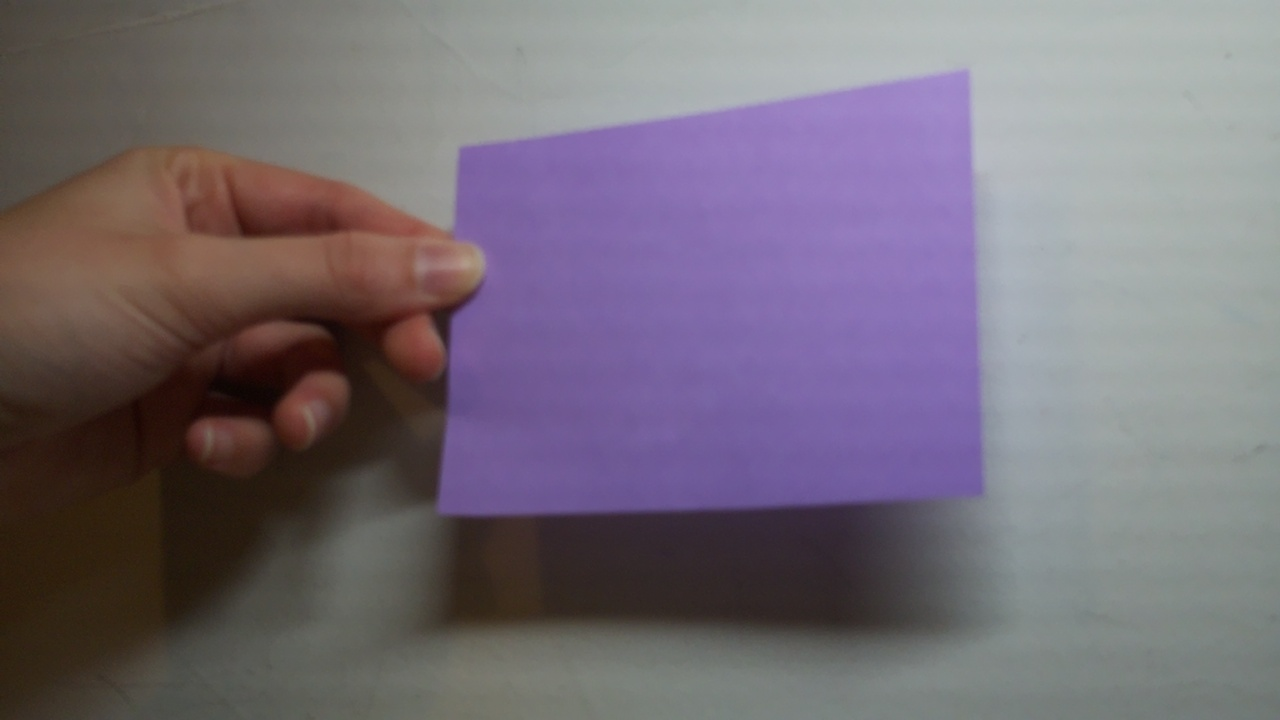
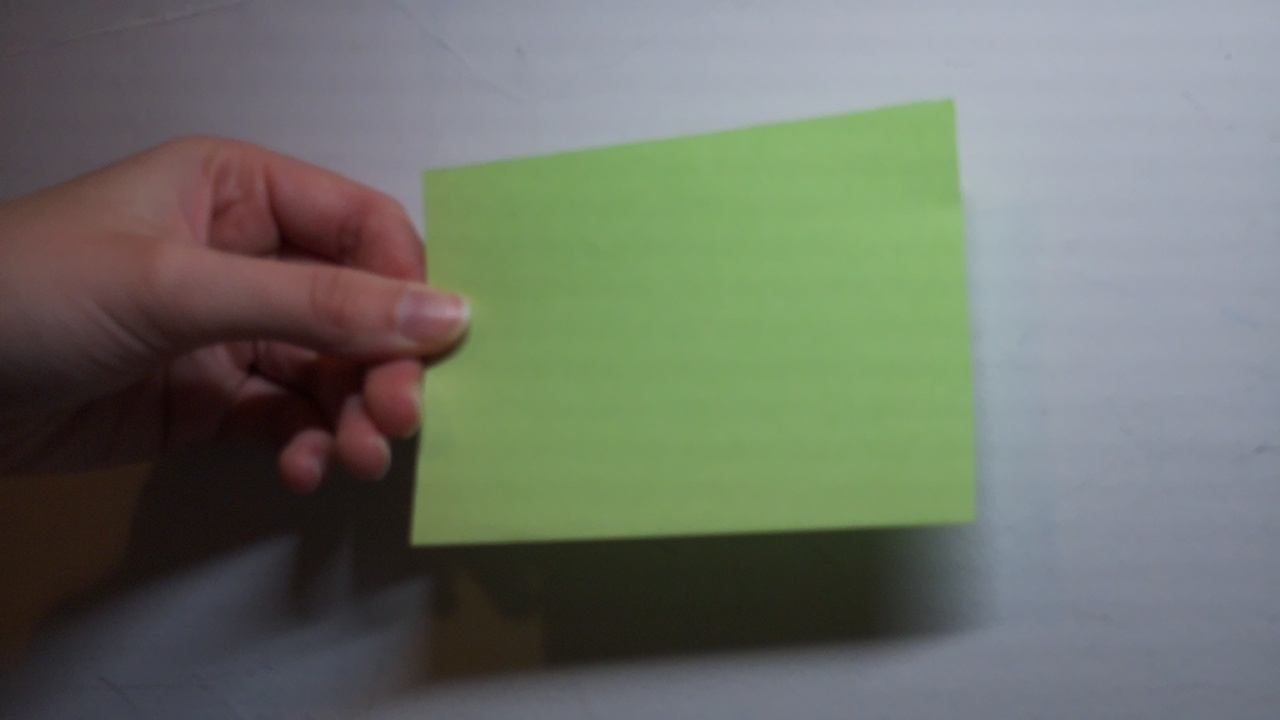
security system casi terminado

diff --git a/security_system.py b/security_system.py
@@ -7,24 +7,20 @@ import time
 
 import numpy as np
 
-from picamera2 import Picamera2
+# from picamera2 import Picamera2
 from typing import List
-from utils_lab2 import non_max_suppression, get_hsv_color_ranges
+from utils import *
 
 
-def load_images(filenames):
-    return [imageio.v2.imread(filename) for filename in filenames]
+# def load_images(filenames):
+#     return [cv2.imread(filename) for filename in filenames]
 
-def show_image(img) -> None:
-    cv2.imshow("Chessboard Images", img)
-    cv2.waitKey(0)
-    cv2.destroyAllWindows()
+# def show_image(img) -> None:
+#     cv2.imshow("Chessboard Images", img)
+#     cv2.waitKey(0)
+#     cv2.destroyAllWindows()
     
-def save_images(img, img_name: str, folder_path: str = "."):
-    if img_name[-4:] != ".jpg":
-        img_name = f"{img_name}.jpg"
-    img_path = os.path.join(folder_path, img_name)
-    cv2.imwrite(img_path, img)
+
 
 # imgs_path = glob.glob('data/*.jpg')
 #     folder = ""
@@ -34,57 +30,111 @@ def save_images(img, img_name: str, folder_path: str = "."):
 # El número de colores dependerá del número de tarjetas que tengamos.
 # El código de cada color se define ejecutando color_code.py
 LIGHT_COLORS = {
-    'red': (138,153,0),
-    'pink': (139,64,141),
-    'blue': (102,108,139),  # subrayador
-    'aquamarine': (40,92,110),  # estuche
-    'purple': (100,123,57)
+    'purple': (100,65,60),
+    'dark_yellow': (0,180,130),
+    'light_yellow': (15,100,120),
+    'orange': (0,145,120),
+    'pink': (120,0,100),
+    'dark_blue': (90,125,90),
+    'light_blue': (90,55,100),
+    'dark_green': (30,120,0),
+    'light_green': (30,80,110)
 }
 
 DARK_COLORS = {
-    'red': (255,255,136),
-    'pink': (255,121,255),
-    'blue': (112,165,219),  # subrayador
-    'aquamarine': (97,165,219),  # estuche
-    'purple': (139,255,169)
+    'purple': (150,110,210),
+    'dark_yellow': (30,255,255),
+    'light_yellow': (35,170,255),
+    'orange': (20,255,255),
+    'pink': (170,255,255),
+    'dark_blue': (150,255,255),
+    'light_blue': (110,105,255),
+    'dark_green': (70,255,255),
+    'light_green': (70,120,255)
 }
 
 CODE_HSV2BGR = 54
 CODE_BGR2HSV = 40
 
-def hsv_to_bgr(imgs):
-    bgr_imgs = []
-    for img in imgs:
-        bgr_imgs.append(cv2.cvtColor(img, CODE_HSV2BGR))
-    return bgr_imgs
+# def hsv_to_bgr(imgs):
+#     bgr_imgs = []
+#     for img in imgs:
+#         bgr_imgs.append(cv2.cvtColor(img, CODE_HSV2BGR))
+#     return bgr_imgs
 
-def bgr_to_hsv(imgs):
-    hsv_imgs = []
-    for img in imgs:
-        hsv_imgs.append(cv2.cvtColor(img, CODE_BGR2HSV))
-    return hsv_imgs
+# def bgr_to_hsv(imgs):
+#     hsv_imgs = []
+#     for img in imgs:
+#         hsv_imgs.append(cv2.cvtColor(img, CODE_BGR2HSV))
+#     return hsv_imgs
 
 def color_segmentation(img, color: str):
     # Necesitamos saber cómo viene la imagen para saber si hay que pasarla a hsv o no. Asumo que vienen en BGR
-    hsv_img = cv2.cvtColor(img, CODE_HSV2BGR)
+    hsv_img = cv2.cvtColor(img, CODE_BGR2HSV)
     mask = cv2.inRange(hsv_img, LIGHT_COLORS[color], DARK_COLORS[color])
     segmented = cv2.bitwise_and(hsv_img, hsv_img, mask=mask)
     segmented_bgr = cv2.cvtColor(segmented, CODE_HSV2BGR)
-    show_image(segmented_bgr, 'Segmented image')
-    return mask
+    show_image(segmented_bgr)
+    return mask, segmented_bgr
 
-def color_detected(mask, thresshold=200) -> bool:
+def color_detected(mask, thresshold=20000) -> bool:
     area_color = np.count_nonzero(mask)
     if area_color > thresshold:
         return True
     else:
         return False
 
+def get_password():
+    try:
+        with open("password.txt", "r", encoding="utf-8") as passw:
+            line = passw.readline()
+            password = line.split(sep=",")
+            password[-1] = password[-1].strip("\n")
+        return password  # Si password.txt estuviera vacío, el código no daría errores
+    except FileNotFoundError:
+        print("El archivo password.txt no se encuentra en la carpeta actual")
+    
+def prueba_insert_password():
+    imgs_path = glob.glob("./data/color_segmentation/colors_*.jpg")
+    imgs = load_images(imgs_path)
+    password = get_password()
+    i = 0
+    j = 0
+    folder_path = os.path.join("./data", "password_prueba")
+    create_folder(folder_path)
+    while i < len(password):
+        color = password[i]
+        frame = imgs[j]
+        if i < 10:
+            frame_name = f"colors_0{i}_{j}.jpg"
+        else:
+            frame_name = f"colors_{i}_{j}.jpg"
+        # show_image(frame)
+        mask, segmented_bgr = color_segmentation(frame, color)  # Sacamos la máscara del color que deberíamos identificar
+
+        # Esto es para guardar imágenes
+        # cv2.imshow("Color Segmented Image", segmented_bgr)
+        # key = cv2.waitKey(0)
+        # # If the key is 's' select the frame as the reference frame
+        # if key == ord('s'):
+        #     save_images(segmented_bgr, frame_name, folder_path)
+
+        if color_detected(mask):
+            print(f"The color {color} was detected correctly")
+            save_images(segmented_bgr, frame_name, folder_path)
+            i += 1
+            j = 0
+            if i < len(password):
+                print("Show the next color card")
+            else:
+                print("Security system disconnected")
+        else:
+            print(f"The correct color hasn't been detected")
+            j += 1
+        time.sleep(2)
+
 def instert_password():
-    with open("password.txt", "r") as passw:
-        line = passw.readline()
-        password = line.split(sep=",")
-    # for color in password:
+    password = get_password()
     picam = Picamera2()
     picam.preview_configuration.main.size = (1280, 720)
     picam.preview_configuration.main.format = "RGB888"
@@ -92,19 +142,23 @@ def instert_password():
     picam.configure("preview")
     picam.start()
     i = 0
-    folder_path = "data/password"
+    folder_path = "./data/password"
+    create_folder(folder_path)
     while i < len(password):
         color = password[i]
-        frame = picam.capture_array()
+        frame = picam.capture_array()  # Hacemos la foto
         if i < 10:
             frame_name = f"colors_0{i}.jpg"
         else:
             frame_name = f"colors_{i}.jpg"
-        save_images(frame, frame_name, folder_path)
-        mask = color_segmentation(frame, color)
+        mask, segmented_bgr = color_segmentation(frame, color)  # Sacamos la máscara del color que deberíamos identificar
         if color_detected(mask):
             print(f"The color {color} was detected correctly. Show the next color card")
+            save_images(segmented_bgr, frame_name, folder_path)
             i += 1
         else:
             print(f"The correct color hasn't been detected")
-        time.sleep(3)
+        time.sleep(2)
+
+if __name__=="__main__":
+    prueba_insert_password()

diff --git a/utils.py b/utils.py
@@ -5,14 +5,24 @@ import numpy as np
 def create_folder(folder_path: str):
     os.makedirs(folder_path, exist_ok=True)
 
+def load_images(filenames):
+    return [cv2.imread(filename) for filename in filenames]
+
 def save_images(img, img_name: str, folder_path: str = "."):
     if img_name[-4:] != ".jpg":
         img_name = f"{img_name}.jpg"
     img_path = os.path.join(folder_path, img_name)
+    print(img_path)
     cv2.imwrite(img_path, img)
 
+# PROPUESTA DE FUNCIÓN
+# def show_image(img, img_name: str) -> None:
+#     cv2.imshow(img_name, img)
+#     cv2.waitKey(0)
+#     cv2.destroyAllWindows()
+
 def show_image(img) -> None:
-    cv2.imshow("Chessboard Images", img)
+    cv2.imshow("Image", img)
     cv2.waitKey(0)
     cv2.destroyAllWindows()
 

diff --git a/color_code.py b/color_code.py
@@ -1,10 +1,11 @@
 import cv2
 import imageio
+import glob
 
 import numpy as np
 
 """
-Antes de ejecutar esto, debemos tener una foto con las tarjetas de los colores, porque este fichero lo ejecutaremos 
+Antes de ejecutar esto, debemos tener las fotos con las tarjetas de los colores, porque este fichero lo ejecutaremos 
 para definir el código BGR de cada color de los que vamos a admitir en la contraseña. 
 
 """
@@ -78,6 +79,7 @@ def get_hsv_color_ranges(image: np.array):
     cv2.destroyAllWindows()
 
 if __name__=="__main__":
-    img_name = "./data/color_segmentation/colors_10.jpg"
+    imgs = glob.glob("./data/color_segmentation/colors_*.jpg")
+    img_name = imgs[0]
     img = cv2.imread(img_name)
     get_hsv_color_ranges(img)
